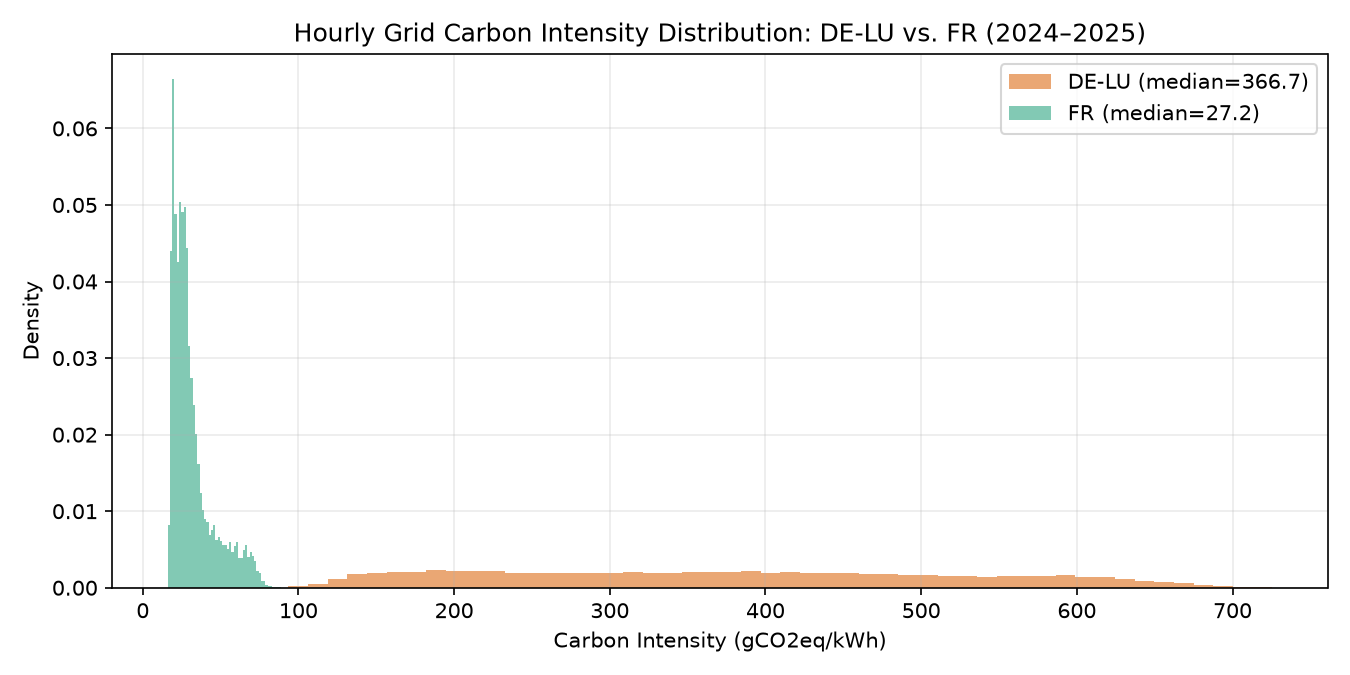
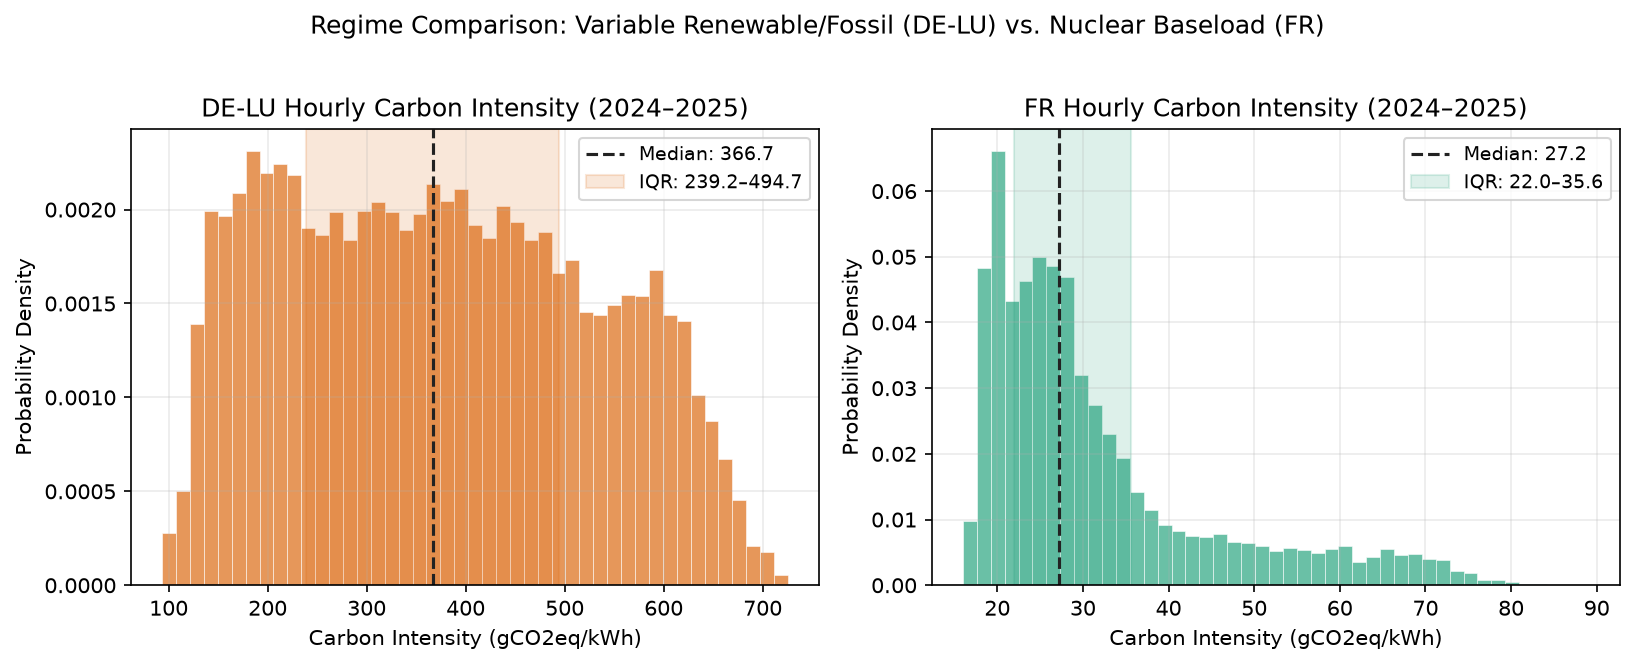
style(eda): split DE-LU and FR carbon intensity distributions into 1x2 panels

diff --git a/notebooks/01_eda_and_data_quality.py b/notebooks/01_eda_and_data_quality.py
@@ -27,19 +27,24 @@ def generate_eda_diagnostics(cfg: CarbonMLOpsConfig | None = None) -> list[Path]
     cfg.images_dir.mkdir(parents=True, exist_ok=True)
     outputs: list[Path] = []
 
-    # 1. Zone distributions (DE-LU vs FR)
-    fig, ax = plt.subplots(figsize=(9, 4.5), dpi=150)
-    for zone, color in [("DE-LU", "#d95f02"), ("FR", "#1b9e77")]:
+    # 1. Two-panel Zone Distributions (DE-LU vs FR with independent scales)
+    fig, axes = plt.subplots(1, 2, figsize=(11, 4.3), dpi=150)
+    zone_styles = [("DE-LU", "#d95f02"), ("FR", "#1b9e77")]
+    for ax, (zone, color) in zip(axes, zone_styles, strict=True):
         vals = df.loc[df["zone"] == zone, "carbon_intensity_g_kwh"].dropna()
-        ax.hist(vals, bins=50, alpha=0.55, density=True, label=f"{zone} (median={vals.median():.1f})", color=color)
-    ax.set_title("Hourly Grid Carbon Intensity Distribution: DE-LU vs. FR (2024–2025)")
-    ax.set_xlabel("Carbon Intensity (gCO2eq/kWh)")
-    ax.set_ylabel("Density")
-    ax.legend()
-    ax.grid(alpha=0.25)
+        q25, med, q75 = np.percentile(vals, [25, 50, 75])
+        ax.hist(vals, bins=45, alpha=0.65, density=True, color=color, edgecolor="white", linewidth=0.4)
+        ax.axvline(med, color="#222222", linestyle="--", linewidth=1.5, label=f"Median: {med:.1f}")
+        ax.axvspan(q25, q75, color=color, alpha=0.15, label=f"IQR: {q25:.1f}–{q75:.1f}")
+        ax.set_title(f"{zone} Hourly Carbon Intensity (2024–2025)")
+        ax.set_xlabel("Carbon Intensity (gCO2eq/kWh)")
+        ax.set_ylabel("Probability Density")
+        ax.legend(frameon=True, fontsize=9)
+        ax.grid(alpha=0.25)
+    fig.suptitle("Regime Comparison: Variable Renewable/Fossil (DE-LU) vs. Nuclear Baseload (FR)", y=1.02)
     p1 = cfg.images_dir / "eda_zone_distributions.png"
     fig.tight_layout()
-    fig.savefig(p1)
+    fig.savefig(p1, bbox_inches="tight")
     plt.close(fig)
     outputs.append(p1)
 
@@ -54,7 +59,7 @@ def generate_eda_diagnostics(cfg: CarbonMLOpsConfig | None = None) -> list[Path]
         ax.set_xticks(range(12))
         ax.set_xticklabels([str(m) for m in range(1, 13)])
         fig.colorbar(im, ax=ax, label="gCO2eq/kWh")
-    axes[0].set_ylabel("Hour (UTC)")
+    axes.set_ylabel("Hour (UTC)")
     p2 = cfg.images_dir / "eda_diurnal_heatmap.png"
     fig.tight_layout()
     fig.savefig(p2)
@@ -64,7 +69,7 @@ def generate_eda_diagnostics(cfg: CarbonMLOpsConfig | None = None) -> list[Path]
     # 3. Autocorrelation up to 72h lags
     fig, ax = plt.subplots(figsize=(9, 4.2), dpi=150)
     lags = np.arange(1, 73)
-    for zone, color in [("DE-LU", "#d95f02"), ("FR", "#1b9e77")]:
+    for zone, color in zone_styles:
         series = df.loc[df["zone"] == zone].sort_values("timestamp_utc")["carbon_intensity_g_kwh"].dropna()
         acfs = [series.autocorr(lag=int(k)) for k in lags]
         ax.plot(lags, acfs, label=zone, color=color, linewidth=1.8)
